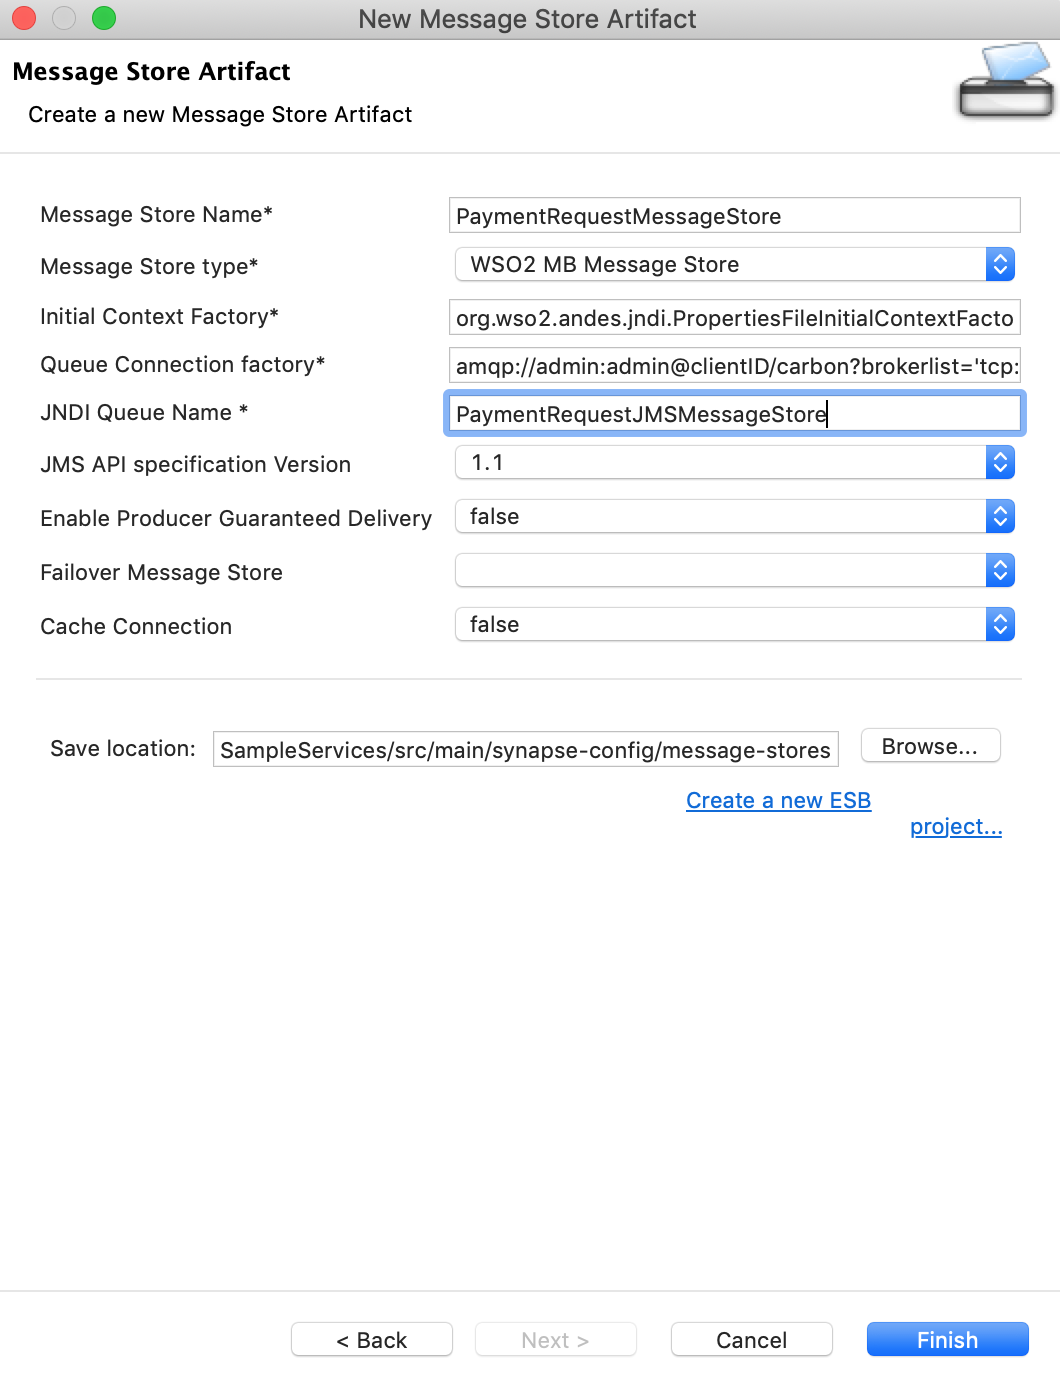
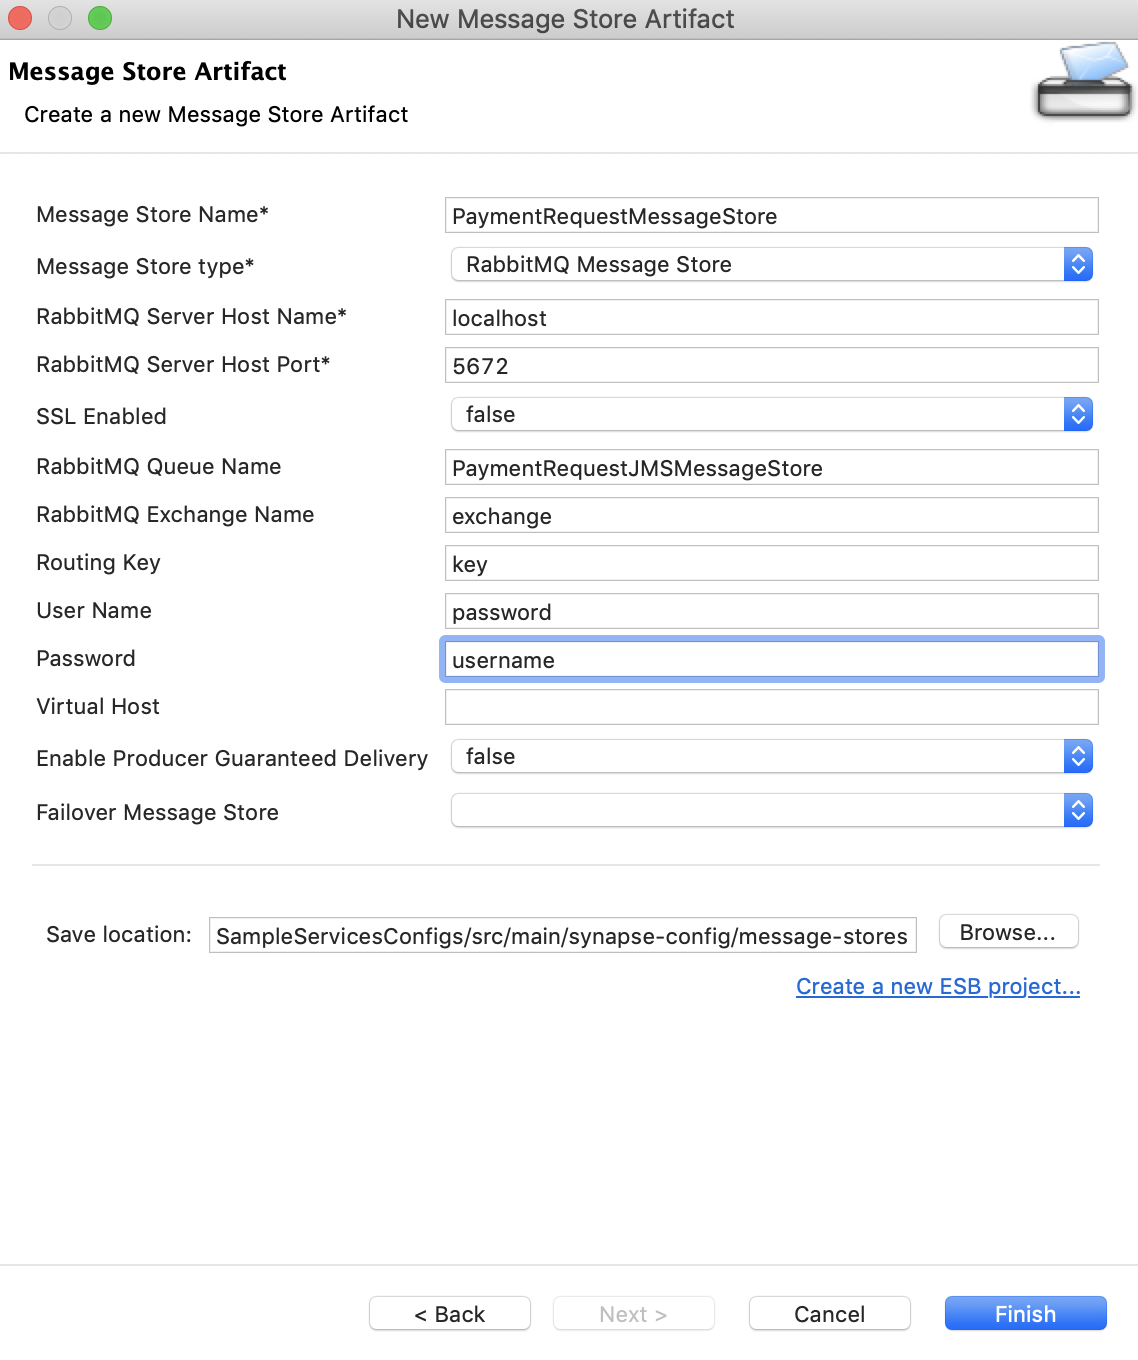
Modify rabbitmq related docs.

diff --git a/en/micro-integrator/docs/use-cases/tutorials/storing-and-forwarding-messages.md b/en/micro-integrator/docs/use-cases/tutorials/storing-and-forwarding-messages.md
@@ -39,21 +39,42 @@ Now, let's create a Message Store artifact to represent the broker.
     </tr>
     <tr>
     <td>Message Store Type</td>
-    <td>WSO2 MB Message Store</td>
-    <td>An instance of WSO2 Message Broker will be used as the broker.</td>
+    <td>RabbitMQ Message Store</td>
+    <td>An instance of RabbitMQ server will be used as the broker.</td>
     </tr>
     <tr>
-    <td>Queue Connection Factory</td>
-    <td><code>amqp://admin:admin@clientID/carbon?brokerlist='tcp://localhost:5675'</code>
-    </td>
-    <td>
-        The connection factory URL for the WSO2 MB broker. Be sure to change the port to 5675.
-    </td>
+    <td>RabbitMQ Server Host Name</td>
+    <td><code>localhost</code></td>
+    <td>The address of the RabbitMQ broker</td>
     </tr>
     <tr>
-    <td>JNDI Queue Name</td>
+    <td>RabbitMQ Server Port</td>
+    <td><code>5672</code></td>
+    <td>The port number of the RabbitMQ message broker.</td>
+    </tr>
+    <tr>
+    <td>RabbitMQ Queue Name</td>
     <td>PaymentRequestJMSMessageStore</td>
-    <td>The name of the queue that will be created in WSO2 MB.</td>
+    <td>The name of the RabbitMQ exchange to which the queue is bound.</td>
+    </tr>
+    <tr>
+    <td>RabbitMQ Exchange Name</td>
+    <td>exchange</td>
+    <td>The name of the RabbitMQ exchange to which the queue is bound.</td>
+    </tr>
+    <tr>
+    <td>Routing Key</td>
+    <td>key</td>
+    <td>The exchange and queue binding value.</td>
+    </tr>
+    <tr>
+    <td>User Name</td>
+    <td>user name</td>
+    <td>The user name to connect to the broker.</td>
+    <tr>
+    <td>Password</td>
+    <td>password</td>
+    <td>The password to connect to the broker.</td>
     </tr>
     </table>
 
@@ -205,48 +226,7 @@ Package the artifacts in your composite application project (SampleServicesCompo
 
 3.  Save the project.
 
-### Step 4: Configure the Micro Integrator server
-
-We will use the embedded Micro Integrator of WSO2 Integration Studio to run this solution. 
-
-Let's configure the embedded server to connect to the broker:
-
-1.  Click the <b>Embedded Micro Integrator Configuration</b> icon on the upper menu to open the dialog box.
-2.  Add the following server configurations (to the `deployment.toml` file) using the upper section in the dialog box.
-
-    ```toml
-    [[transport.jms.listener]]
-    name = "myQueueListener"
-    parameter.initial_naming_factory = "org.wso2.andes.jndi.PropertiesFileInitialContextFactory"
-    parameter.broker_name = "wso2mb"
-    parameter.provider_url = "conf/jndi.properties"
-    parameter.connection_factory_name = "QueueConnectionFactory"
-    parameter.connection_factory_type = "queue"
-    parameter.cache_level = "consumer"
-
-    [[transport.jms.sender]]
-    name = "myQueueSender"
-    parameter.initial_naming_factory = "org.wso2.andes.jndi.PropertiesFileInitialContextFactory"
-    parameter.broker_name = "wso2mb"
-    parameter.provider_url = "conf/jndi.properties"
-    parameter.connection_factory_name = "QueueConnectionFactory"
-    parameter.connection_factory_type = "queue"
-    parameter.cache_level = "producer"
-
-    [transport.jndi.connection_factories]
-    'connectionfactory.QueueConnectionFactory' = "amqp://admin:admin@clientID/carbon?brokerlist='tcp://localhost:5675'"
-
-    [transport.jndi.queue]
-    PaymentRequestJMSMessageStore="PaymentRequestJMSMessageStore"
-    ```
-
-3. Click the (<img src="../../../assets/img/tutorials/common/plus-icon.png" width="20">) icon in the lower section and copy the following JARs from the `<EI_6.6.0_HOME>/wso2/broker/client-lib/` folder.
-    -   andes-client-*.jar
-    -   geronimo-jms_1.1_spec-*.jar
-    -   org.wso2.securevault-*.jar
-
-
-### Step 5: Build and run the artifacts
+### Step 4: Build and run the artifacts
 
 To test the artifacts, deploy the [packaged artifacts](#step-3-package-the-artifacts) in the embedded Micro Integrator:
 
@@ -262,7 +242,7 @@ The artifacts will be deployed in the embedded Micro Integrator and the server w
 !!! Warning
     Stop the Micro Integrator before proceeding to test. This is because you need to start the broker profile before starting the Micro Integrator.
 
-### Step 6: Test the use case
+### Step 5: Test the use case
 
 Let's test the use case by sending a simple client request that invokes the service.
 
@@ -276,22 +256,11 @@ Let's test the use case by sending a simple client request that invokes the serv
     java -jar Hospital-Service-2.0.0-EI7.jar
     ```
 
-#### Start the Message Broker runtime
+#### Start the RabbitMQ Broker
     
-To start the Message Broker:
+Make sure that you have installed and started a RabbitMQ server instance for the Micro-Integrator to communicate with.
 
-1.  Open a terminal and navigate to the `EI_6.6.0_HOME/wso2/broker/bin` directory.
-2.  Execute the following command to run the message broker. 
-
-    ```bash tab='On MacOS/Linux/Centos'
-    sh wso2server.sh
-    ```
-
-    ```bash tab='On Windows'
-    wso2server.bat
-    ```
-
-    See the [WSO2 EI 6.6.0 documentation](https://docs.wso2.com/display/EI660/Running+the+Product) for more information on how to run the Message Broker profile.
+    See the [RabbitMQ documentation](https://www.rabbitmq.com/download.html) for more information on how to install and run the product.
 
 #### Restart the Micro Integrator
 

diff --git a/en/micro-integrator/docs/setup/brokers/configure-with-rabbitMQ.md b/en/micro-integrator/docs/setup/brokers/configure-with-rabbitMQ.md
@@ -4,7 +4,7 @@ This section describes how to configure WSO2 Micro Integrator to connect with Ra
 
 ## Enabling the RabbitMQ transport 
 
-Add the following parameters to the deployment.toml file (stored in the `MI_HOME/conf` directory).
+Uncomment the following parameters in the deployment.toml file (stored in the `MI_HOME/conf` directory).
 
 ```toml
 [transport.rabbitmq]
@@ -17,8 +17,6 @@ parameter.port = 5672
 parameter.username = "guest"
 parameter.password = "guest"
 ```
-
-Download the [amqp-client-5.7.0.jar](https://www.rabbitmq.com/java-client.html) and copy it into `MI_HOME/lib` directory.
 
 ## Enabling SSL
 
